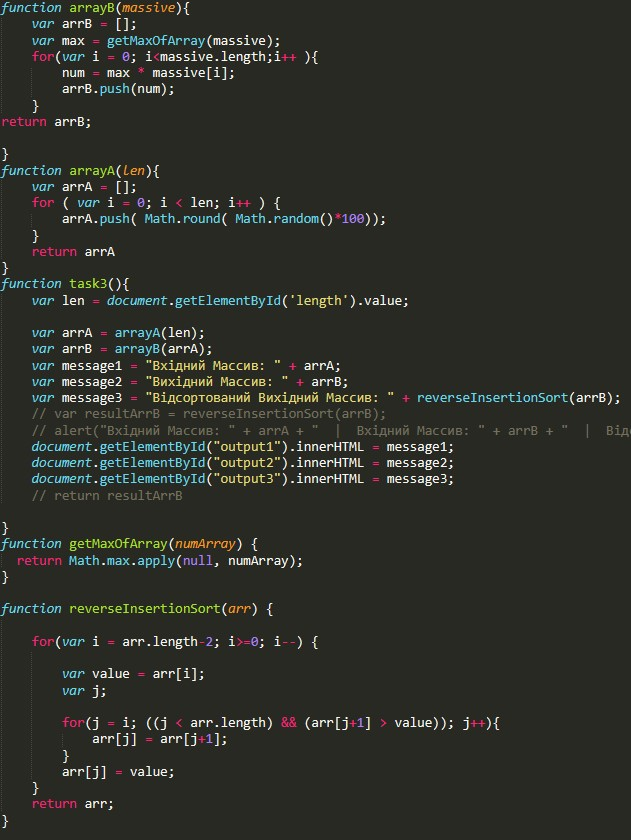
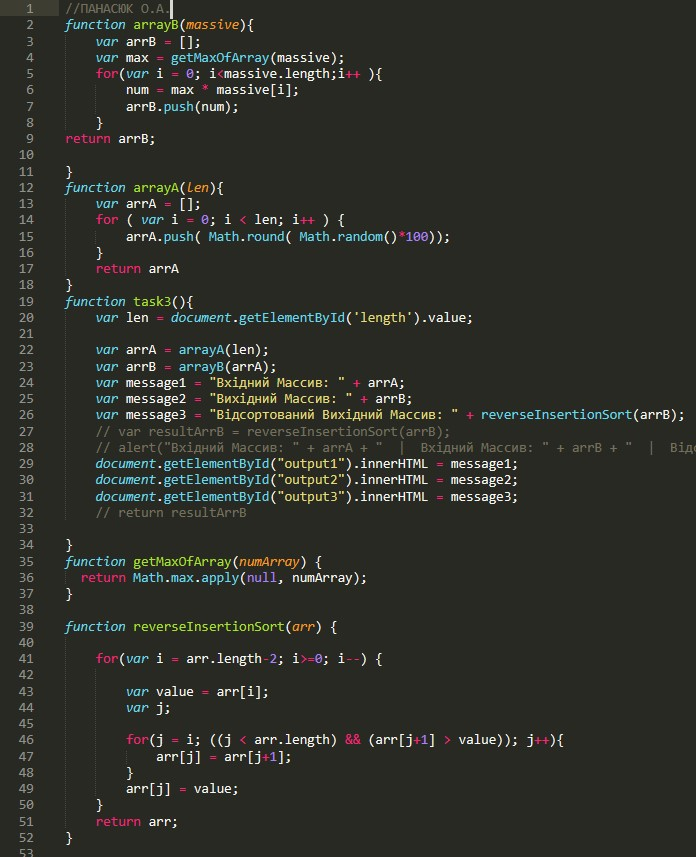
sanya

Changed region(s): [[0.0, 0.0, 1.0, 1.0]]

diff --git a/js/lab4methods.js b/js/lab4methods.js
@@ -33,14 +33,20 @@ function task_4(){
     var pic2 = document.createElement("IMG");
     var pic3 = document.createElement("IMG");
     var pic4 = document.createElement("IMG");
+    var pic5 = document.createElement("IMG");
+    var pic6 = document.createElement("IMG");
     pic1.src = "images/lab4/task4Panasiuk.jpg";
     pic2.src = "images/lab4/result4Panasiuk.jpg";
-    pic3.src = "images/lab4/taks4gleks.jpg";
+    pic3.src = "images/lab4/task4gleks.jpg";
     pic4.src = "images/lab4/result4Panasiuk.jpg";
+    pic5.src = "images/lab4/task4glek2.jpg";
+    pic6.src = "images/lab4/result4glek2.jpg";
     text.appendChild(pic1);
     text.appendChild(pic2);
     text.appendChild(pic3);
     text.appendChild(pic4);
+    text.appendChild(pic5);
+    text.appendChild(pic6);
 }
 function task_6(){
     var text = document.getElementById("t4");
@@ -49,15 +55,22 @@ function task_6(){
     var pic2 = document.createElement("IMG");
     var pic3 = document.createElement("IMG");
     var pic4 = document.createElement("IMG");
+    var pic5 = document.createElement("IMG");
+    var pic6 = document.createElement("IMG");
     pic1.src = "images/lab4/calcCode.jpg";
     pic2.src = "images/lab4/calc.jpg";
     pic3.src = "images/lab4/sliderCode.jpg";
     pic4.src = "images/lab4/slider.jpg";
+    pic5.src = "images/lab4/task6gleks.jpg";
+    pic6.src = "images/lab4/result6gleks.jpg";
     text.appendChild(pic1);
     text.appendChild(pic2);
     text.appendChild(pic3);
     text.appendChild(pic4);
+    text.appendChild(pic5);
+    text.appendChild(pic6);
 }
 function conclution(){
-
+var text = document.getElementById("t4");
+    text.innerHTML = "Oleg: Під час виконання лабораторної роботи я навчився користуватися інформаційним змістом web-сторінки мовою JavaScript, використовуючи масиви та обробник подій.<br>Rolik: Під час виконання роботи, я вдосконалив навички роботи з масивами та зображеннями за допомогою мови javascript.<br>Panasiuk: Вдосконалів навічкі роботі з мовою JavaScrиpt та освіжів знання роботі з масівамі.";
 }

diff --git a/js/lab4jermak.js b/js/lab4jermak.js
@@ -1,3 +1,4 @@
+//ЕРМАК О.Р
 var arrpar = [];
 var arrnepar = [];
 function division(arr){
@@ -9,10 +10,6 @@ function division(arr){
 		}
 	}
 }
-<<<<<<< HEAD
-=======
-
->>>>>>> 919287220b0024cf8a1932220d63a2d725f089d9
 function selectionSort(arr){
     var n = arr.length;
     for(var i=0; i < n-1; i++)
@@ -27,10 +24,6 @@ function selectionSort(arr){
     }
     return arr;
 }
-<<<<<<< HEAD
-=======
-
->>>>>>> 919287220b0024cf8a1932220d63a2d725f089d9
 function task3(){
 	var len = document.getElementById('length').value;
 	array = arrayRandomizer(len);

diff --git a/js/lab4.js b/js/lab4.js
@@ -1,3 +1,4 @@
+//ПАНАСЮК О.А.
 function arrayB(massive){
 	var arrB = [];
 	var max = getMaxOfArray(massive);

diff --git a/lab4Aleh/slideshow.html b/lab4Aleh/slideshow.html
@@ -1,3 +1,4 @@
+<!-- Jermak -->
 <!DOCTYPE html>
 <html>
 
